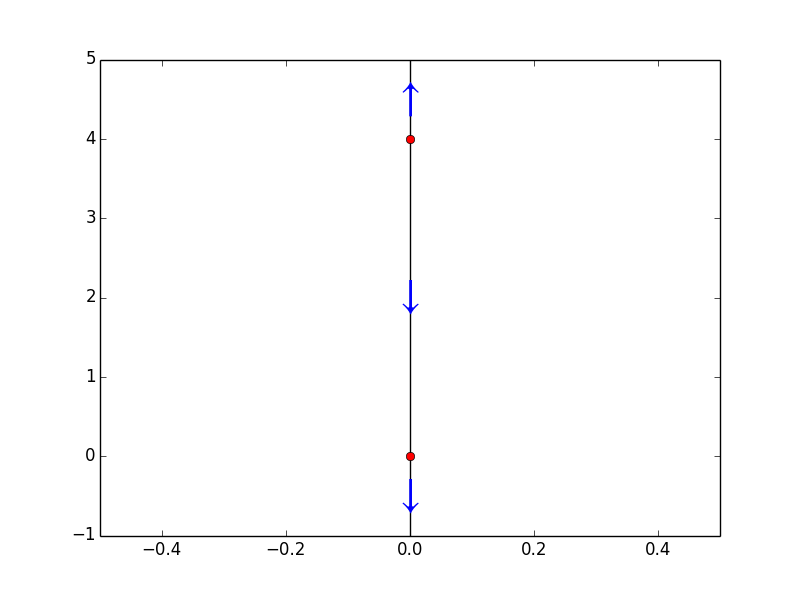
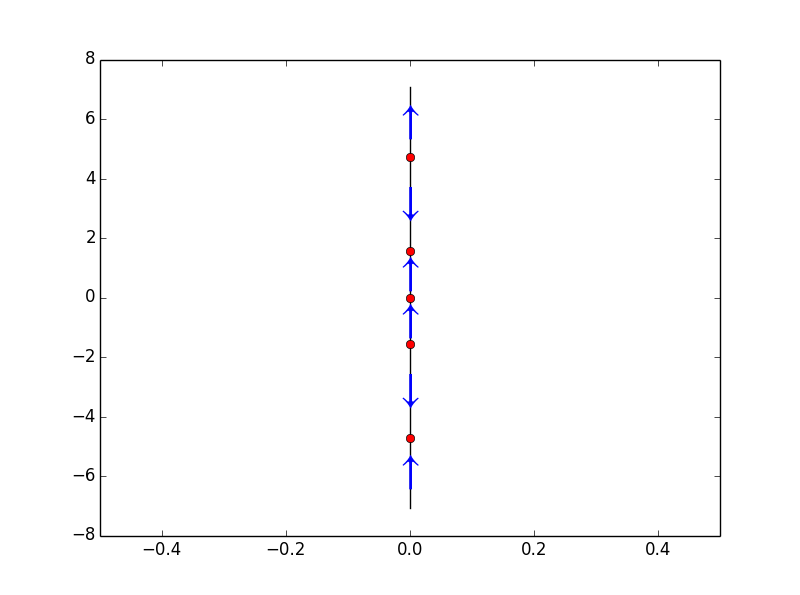
update code and plot

diff --git a/python_codes/07.py b/python_codes/07.py
@@ -1,31 +1,76 @@
-    import sympy
-    from sympy.abc import t
-    from sympy import Function, Derivative, dsolve, Eq, solve
+import sympy
+from sympy.abc import t
+from sympy import Function, Derivative, dsolve, Eq, solve
 
-    def phaseLine(formula):
+def phaseLine(formula):
 
+    solutions = solve(Eq(formula,0),y(t))
+    solutions.sort()
+    ran = solutions[-1]-solutions[0]
+    ydomain = np.linspace(float(solutions[0]-0.25*ran), float(solutions[-1]+0.25*ran))
+
+    fig = plt.figure(num=1)
+    plt.plot([0 for dummy in ydomain],ydomain, color = 'black')
+    plt.plot([0 for dummy in solutions], solutions, 'or')
+    plt.axis(xmin = -0.5, xmax = 0.5)
+
+    intervals = [float(solutions[0]-0.25*ran)]+solutions+[float(solutions[-1]+0.25*ran)]
+    for i in range(len(intervals)-1):
+        midpoint = (intervals[i]+intervals[i+1])/2.0
+        intervalSign = sign(formula.evalf(subs={'y(t)':midpoint}))
+        if intervalSign == -1:
+            plt.text(0, midpoint, u'\u2193',fontname='STIXGeneral', color = 'blue', size=30, va='center', ha='center', clip_on=True)
+        elif intervalSign == 1:
+            plt.text(0, midpoint, u'\u2191',fontname='STIXGeneral', color = 'blue', size=30, va='center', ha='center', clip_on=True)
+    return fig
+
+
+
+y = Function('y')
+formula = y(t)*(1-y(t))
+fg = phaseLine(formula)
+fg.show()
+
+
+# exercise
+formula = y(t)**2 - 4*y(t) - 12
+fg2 = phaseLine(formula)
+fg2.show()
+
+# exercise
+formula = 3*y(t)**3-12*y(t)**2
+fg3 = phaseLine(formula)
+fg3.show()
+
+
+def phaseLine(formula, solutions = None):
+    if solutions == None:
         solutions = solve(Eq(formula,0),y(t))
         solutions.sort()
-        ran = solutions[-1]-solutions[0]
-        ydomain = np.linspace(float(solutions[0]-0.25*ran), float(solutions[-1]+0.25*ran))
 
-        fig = plt.figure(num=1)
-        plt.plot([0 for dummy in ydomain],ydomain, color = 'black')
-        plt.plot([0 for dummy in solutions], solutions, 'or')
-        plt.axis(xmin = -0.5, xmax = 0.5)
+    ran = solutions[-1]-solutions[0]
 
-        intervals = [float(solutions[0]-0.25*ran)]+solutions+[float(solutions[-1]+0.25*ran)]
-        for i in range(len(intervals)-1):
-            midpoint = (intervals[i]+intervals[i+1])/2.0
-            intervalSign = sign(formula.evalf(subs={'y(t)':midpoint}))
-            if intervalSign == -1:
-                plt.text(0, midpoint, u'\u2193',fontname='STIXGeneral', color = 'blue', size=30, va='center', ha='center', clip_on=True)
-            elif intervalSign == 1:
-                plt.text(0, midpoint, u'\u2191',fontname='STIXGeneral', color = 'blue', size=30, va='center', ha='center', clip_on=True)
+    ydomain = np.linspace(float(solutions[0]-0.25*ran), float(solutions[-1]+0.25*ran))
 
-        return fig
+    fig = plt.figure(num=1)
+    plt.plot([0 for dummy in ydomain],ydomain, color = 'black')
+    plt.plot([0 for dummy in solutions], solutions, 'or')
+    plt.axis(xmin = -0.5, xmax = 0.5)
 
-    y = Function('y')
-    formula = y(t)*(1-y(t))
-    fg = phaseLine(formula)
-    fg.show()
+    intervals = [float(solutions[0]-0.25*ran)]+solutions+[float(solutions[-1]+0.25*ran)]
+    for i in range(len(intervals)-1):
+        midpoint = (intervals[i]+intervals[i+1])/2.0
+        intervalSign = sign(formula.evalf(subs={'y(t)':midpoint}))
+        if intervalSign == -1:
+            plt.text(0, midpoint, u'\u2193',fontname='STIXGeneral', color = 'blue', size=30, va='center', ha='center', clip_on=True)
+        elif intervalSign == 1:
+            plt.text(0, midpoint, u'\u2191',fontname='STIXGeneral', color = 'blue', size=30, va='center', ha='center', clip_on=True)
+    return fig
+
+
+formula = y(t)**2*sympy.cos(y(t))
+fg4 = phaseLine(formula)
+fg4.show()
+
+fg5 = phaseLine(formula, [-3/2.0*pi,-1.0/2*pi,0,1.0/2*pi,3/2.0*pi])
+fg5.show()
